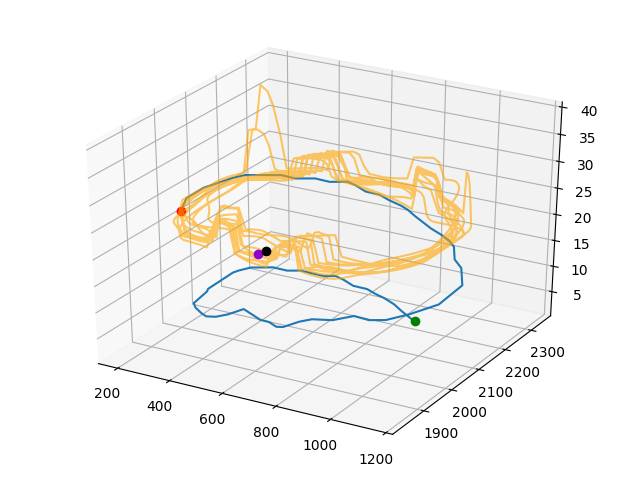
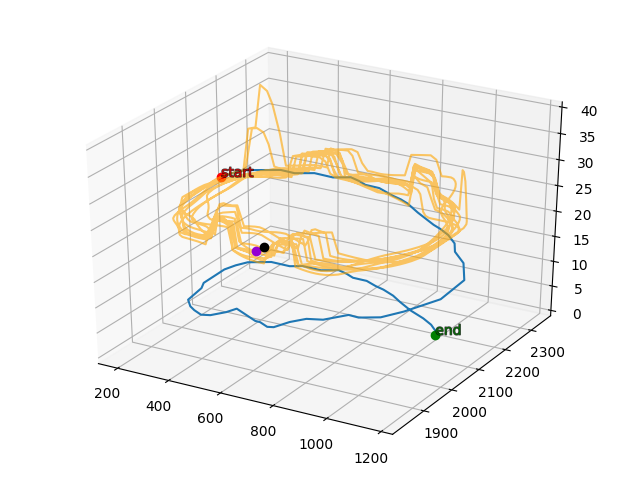
3.4: added text in plots

diff --git a/project_3/task3.4/task3.4.py b/project_3/task3.4/task3.4.py
@@ -115,8 +115,11 @@ def jointProbabilities(x, activities, neurons, kmean):
     return jointNorm
 
 
-def computeTrajectory(iterations, x, neurons, kmean, joint):
-    starting_index = np.random.randint(len(x))#1058
+def computeTrajectory(iterations, x, neurons, kmean, joint, start_index=None):
+    starting_index = start_index if start_index is not None else np.random.randint(len(x))
+    # if start_index is not None:
+    #     starting_index = np.random.randint(len(x))#1058
+
     r = x[starting_index]
     logger.debug('Trajectory start point=%s' % r)
     trajectory = [r]
@@ -168,6 +171,15 @@ def plot_clusters(data, clusters_map, centers, plot_name='3dplot.png'):
         plt.show()
 
 
+def _plot_points(ax, x, y, z, color, text=None):
+    ax.plot([x], y, z, marker='o', color=color)
+    if text:
+        t = ax.text(x, y, z, text, color=color, alpha=0.7)
+        t.set_path_effects(
+            [path_effects.Stroke(linewidth=1, foreground='black'),
+             path_effects.Normal()])
+
+
 def plot_trajectory(trajectory, origin, plot_name, plot_origin=False):
     global SHOW_PLOTS
     x = np.append([], trajectory[:, 0])
@@ -177,13 +189,17 @@ def plot_trajectory(trajectory, origin, plot_name, plot_origin=False):
 
     ax = fig.gca(projection='3d')
     ax.plot(x, y, z, label='trajectory')
-    ax.plot([x[0]], y[0], z[0], marker='o', color='red')
-    ax.plot([x[-1]], y[-1], z[-1], marker='o', color='green')
+
+    _plot_points(ax, x[0], y[0], z[0], color='red', text='start')
+    _plot_points(ax, x[-1], y[-1], z[-1], color='green', text='end')
+
     if plot_origin:
         ax.plot(origin[:, 0], origin[:, 1], origin[:, 2],
             label='original trajectory', color='orange', alpha=0.6)
-        ax.plot([origin[0, 0]], origin[0, 1], origin[0, 2], marker='o', color='darkviolet')
-        ax.plot([origin[-1, 0]], origin[-1, 1], origin[-1, 2], marker='o', color='black')
+        _plot_points(ax, origin[0, 0], origin[0, 1], origin[0, 2],
+                     color='darkviolet')
+        _plot_points(ax, origin[-1, 0], origin[-1, 1], origin[-1, 2],
+                     color='black')
 
     plt.tight_layout()
     file_path = plot_name
@@ -195,7 +211,7 @@ def plot_trajectory(trajectory, origin, plot_name, plot_origin=False):
 
 
 def analyze(path, user_state_file, neurons_state_file, n_clusters, iterations,
-            plot_origin=False):
+            plot_origin=False, start_index=None):
     logger.info('\nPATH=%s\nStart analysis with:'
                 '\nn_clusters=%s'
                 '\niterations=%s'
@@ -208,7 +224,6 @@ def analyze(path, user_state_file, neurons_state_file, n_clusters, iterations,
     user_state_file = _get_file_name(user_state_file)
     neurons_state_file = _get_file_name(neurons_state_file)
     plots_dir = _get_file_name('plots')
-
 
     x = get_data(user_state_file)
     neurons = get_data(neurons_state_file)
@@ -238,7 +253,7 @@ def analyze(path, user_state_file, neurons_state_file, n_clusters, iterations,
 
     joint = jointProbabilities(x, activities, neurons, kmean)#, clustered_matrix_x, clustered_matrix_a)
     print joint.round(2)
-    trajectory = computeTrajectory(200, x, neurons, kmean, joint)
+    trajectory = computeTrajectory(200, x, neurons, kmean, joint, start_index=start_index)
     plot_trajectory(trajectory, x, trajectory_plot_file, plot_origin)
     logger.info('Analysis is done!')
 
@@ -250,34 +265,38 @@ if __name__ == '__main__':
             N_CLUSTERS.n10,
             ITERATIONS.n10000,
             plot_origin=False)
-    
+
     analyze(PATHS.path1, USER_STATE_FILE,
             NEURONS_FILE.n10,
             N_CLUSTERS.n60,
-            ITERATIONS.n10000)
-    
+            ITERATIONS.n10000,
+            plot_origin=False)
+
     analyze(PATHS.path1, USER_STATE_FILE,
             NEURONS_FILE.n60,
             N_CLUSTERS.n60,
             ITERATIONS.n10000,
             plot_origin=True)
-
     # ANALYSIS FOR PATH 2
 
     analyze(PATHS.path2, USER_STATE_FILE,
             NEURONS_FILE.n10,
             N_CLUSTERS.n10,
-            ITERATIONS.n10000)
+            ITERATIONS.n10000,
+            plot_origin=False,
+            start_index=0)
 
     analyze(PATHS.path2, USER_STATE_FILE,
             NEURONS_FILE.n10,
             N_CLUSTERS.n60,
-            ITERATIONS.n10000)
+            ITERATIONS.n10000,
+            plot_origin=False)
 
     analyze(PATHS.path2, USER_STATE_FILE,
             NEURONS_FILE.n60,
             N_CLUSTERS.n60,
             ITERATIONS.n10000,
-            plot_origin=True)
+            plot_origin=True,
+            start_index=None)
 
 
